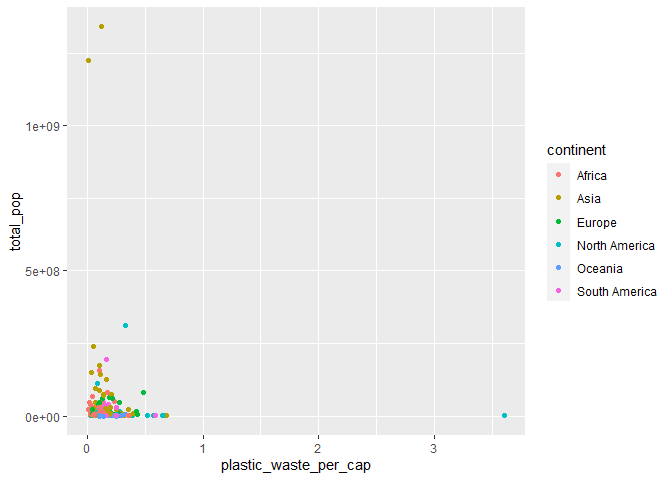
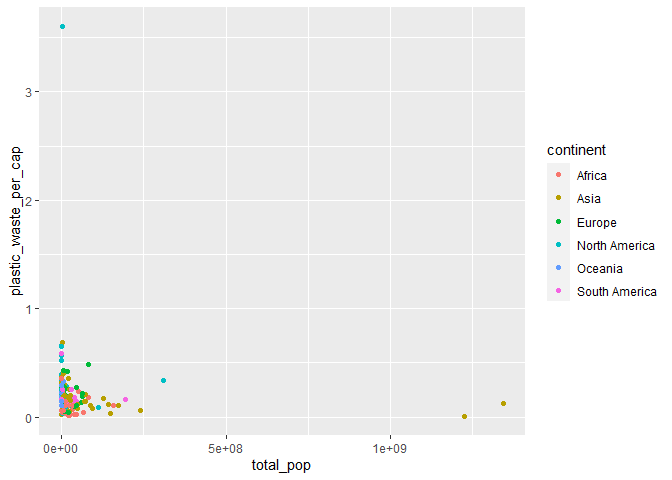
worked on text

diff --git a/lab-02.md b/lab-02.md
@@ -1,4 +1,4 @@
-Lab 02 - Plastic waste
+Lauren Latham - Lab 02 - Plastic waste
 ================
 laurenlatham97
 2/4/21
@@ -14,8 +14,8 @@ plastic_waste <- read_csv("data/plastic-waste.csv")
 ```
 
 Below is a histogram of the distribution of plastic waste per capita
-faceted by continent. WHAT DOES THIS SAY ABOUT HOW CONTINENTS COMPARE TO
-EACHOTHER??
+faceted by continent. AND WHAT DOES THIS SAY ABOUT HOW COUNTRIES
+COMPARE?
 
 ``` r
 ggplot(plastic_waste, aes(x=plastic_waste_per_cap))+geom_histogram(bins=15)+facet_wrap(~continent)
@@ -26,7 +26,7 @@ ggplot(plastic_waste, aes(x=plastic_waste_per_cap))+geom_histogram(bins=15)+face
 ![](lab-02_files/figure-gfm/unnamed-chunk-1-1.png)<!-- -->
 
 Below is a density plot demonstrating plastic waste per capita with each
-continent color-coded. I lowered the alpha to 0.3 data from each
+continent color-coded. I lowered the alpha to 0.3 so that data from each
 continent can be seen more easily. The color and fill go in the mapping
 aesthetics because they are mapped to specific variables, whereas the
 alpha information goes in the geom characteristics because it is
@@ -72,7 +72,8 @@ The violin plots are useful because the display the full distribution of
 the data, unlike the box plots. OK BUT WHAT DO BOX PLOTS DISPLAY THAT
 VIOLIN PLOTS DO NOT? - REVISIT.
 
-scatterplot:
+Relationship between plastic waste per capita and mismanaged plastic
+waste per capita (scatterplot):
 
 ``` r
 ggplot(data = plastic_waste, 
@@ -84,7 +85,17 @@ ggplot(data = plastic_waste,
     ## Warning: Removed 51 rows containing missing values (geom_point).
 
 ![](lab-02_files/figure-gfm/unnamed-chunk-5-1.png)<!-- -->
-scatterplot-color:
+
+From the above scatterplot we can see that there is a positive
+relationship between plastic waste per capita and mismanaged plastic
+wast per capita (i.e., as plastic waste per capita goes up, mismanaged
+plastic waster per capita also goes up). However, it looks like there
+may be two slightly different patterns, with some countries having a
+very strong positive relationship between these variables, and other
+countries have a somewhat weaker positive relationship.
+
+Relationship between plastic waste per capita and mismanaged plastic
+waste per capita (scatterplot-color country):
 
 ``` r
 ggplot(data = plastic_waste, 
@@ -97,27 +108,39 @@ ggplot(data = plastic_waste,
 
 ![](lab-02_files/figure-gfm/unnamed-chunk-6-1.png)<!-- -->
 
+The above scatterplot demonstrates the same relationship described
+earlier between plastic waste per capita and mismanaged plastic waste
+per capita, but the color coding makes it easier to understand the two
+potentially different patterns. It looks like the relationship between
+these variables is weaker for North American and European countries, and
+much stronger for other countries.
+
+Relationship between total population and plastic waste per capita
+(scatterplot):
+
 ``` r
 ggplot(data = plastic_waste, 
-       mapping = aes(x = plastic_waste_per_cap, 
-                     y = total_pop, color = continent)) +
+       mapping = aes(x = total_pop, 
+                     y = plastic_waste_per_cap, color = continent)) +
   geom_point()
 ```
 
     ## Warning: Removed 61 rows containing missing values (geom_point).
 
-![](lab-02_files/figure-gfm/unnamed-chunk-7-1.png)<!-- -->
+![](lab-02_files/figure-gfm/unnamed-chunk-7-1.png)<!-- --> INSERT
+EXPLANATION
+
+Relationship between coastal population and plastic waste per capita
+(scatterplot):
 
 ``` r
 ggplot(data = plastic_waste, 
-       mapping = aes(x = plastic_waste_per_cap, 
-                     y = coastal_pop, color = continent)) +
+       mapping = aes(x = coastal_pop, 
+                     y = plastic_waste_per_cap, color = continent)) +
   geom_point()
 ```
 
     ## Warning: Removed 51 rows containing missing values (geom_point).
 
-![](lab-02_files/figure-gfm/unnamed-chunk-8-1.png)<!-- -->
-
-Still need to work on fixing up these graphs and making interpretations
-as instructed in the lab, but the base code is all here.
+![](lab-02_files/figure-gfm/unnamed-chunk-8-1.png)<!-- --> INSERT
+EXPLANATION
